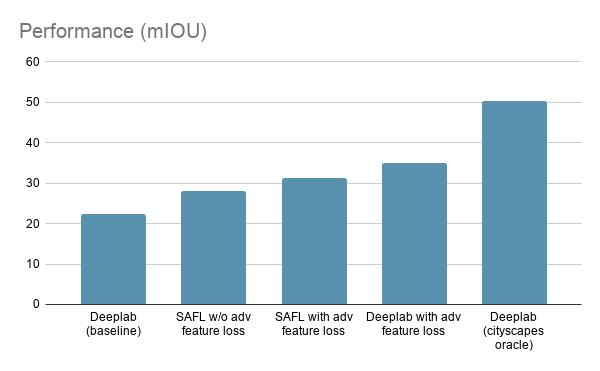
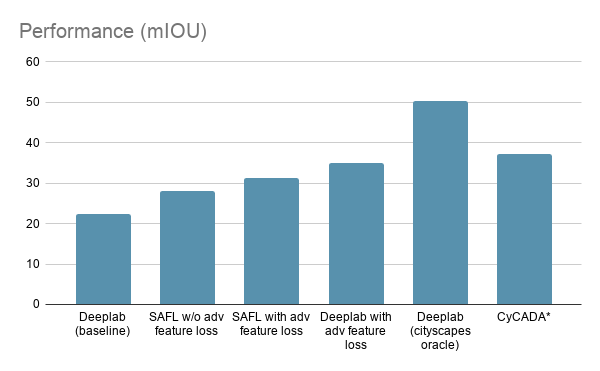
added cycada, references, updated figures, tables

Changed region(s): [[0.12, 0.2668, 0.93, 0.9488]]

diff --git a/index.html b/index.html
@@ -120,19 +120,21 @@
 
 <style type="text/css">
 	table.tableizer-table {
-		font-size: 12px;
+		font-size: 14px;
 		border: 1px solid #CCC; 
-		font-family: Arial, Helvetica, sans-serif;
+		border-collapse: collapse;
 	} 
 	.tableizer-table td {
 		padding: 4px;
 		margin: 3px;
 		border: 1px solid #CCC;
+		text-align: center;
 	}
 	.tableizer-table th {
-		background-color: #104E8B; 
+		padding: 4px;
+		margin: 3px;
+		background-color: black;
 		color: #FFF;
-		font-weight: bold;
 	}
 </style>
 
@@ -223,146 +225,130 @@
 		<center><h1>Abstract</h1></center>
 		<tr>
 			<td>
-				This is my abstract.
+				We propose a novel domain adaptation method, SAFL for semantic segmentation. Assuming we only have an access to ground-truth segmentation maps in a source domain, SAFL learns the features of the source (synthetic) and target (real) domains in a supervised and self-supervised manner respectively. For self-supervised training, we use image reconstruction to learn the features of the target domain without ground-truth labels. Our experimental results show that the self-supervised training via image reconstruction in the target domain helps our method improve the mIoU score in semantic segmentation significantly.
 			</td>
 		</tr>
 	</table>
 	<br>
 
 	<hr>
-	<center><h1>Talk</h1></center>
-	<p align="center">
-		<iframe width="660" height="395" src="https://www.youtube.com/embed/dQw4w9WgXcQ" frameborder="0" allow="autoplay; encrypted-media" allowfullscreen align="center"></iframe>
-	</p>
-
-	<table align=center width=800px>
-		<br>
-		<tr>
-			<center>
-				<span style="font-size:28px"><a href=''>[Slides]</a>
-				</span>
-			</center>
-		</tr>
-	</table>
-	<hr>
-
-	<center><h1>Code</h1></center>
-
-	<table align=center width=420px>
-		<center>
-			<tr>
-				<td>
-				</td>
-			</tr>
-		</center>
-	</table>
-	<table align=center width=400px>
-		<tr>
-			<td align=center width=400px>
-				<center>
-					<td><img class="round" style="width:450px" src="./resources/method_diagram.png"/></td>
-				</center>
-			</td>
-		</tr>
-	</table>
+	<center><h1>Introduction</h1></center>
 	<table align=center width=850px>
 		<center>
 			<tr>
 				<td>
-					Short description if wanted
+		Syn2Real is an approach to train a deep neural network (DNN) with only synthetic labeled images and optionally unlabeled real images.
+This approach is gaining popularity due to its potential ability to reduce the need of annotating large quantities of real images. It is especially beneficial for pixel-level tasks such as semantic segmentation and change detection, where labeling is the most time-consuming and labor-intensive.
+Another merit of Syn2Real is its ability to generate synthetic images diverse in weather and illumination conditions. This advantage, for instance, makes it easier for a trained model to deal with rare events like snow, rain, and fog in the field of autonomous driving. However, Syn2Real has a challenge of poor generalization to real images caused by the domain gap between real and synthetic images. To address this problem, many methods have been proposed in recent years such as unsupervised domain adaptation (DA), unsupervised representation learning, and learning from noisy or pseudo labels. Generally, unsupervised DA and representation learning train the network to make the feature distributions of the target and source domain closer. However, aligning the real (target) domain to the synthetic (source) domain distribution is an ill-posed problem because the real domain is significantly more complex and contains many more objects and nuisances. Learning from noisy labels is the latest approach in domain adaptation and achieves promising results. However, training with pseudo-labels can be unstable and often requires special tuning to avoid degeneration. To achieve stable training while maintaining high accuracy, we propose Self-Supervised Auxiliary Feature Learning (SAFL) --- a novel network architecture which learns domain adaptive features for semantic segmentation through the training of self-supervised image inpainting of unlabeled real images. We hypothesize that the task of self-supervised learning on real images acts as a strong regularizer for the network to perform well in both the source and target domains. To evaluate our method, we plan to conduct experiments of domain adaptive segmentation using the GTAV (synthetic) and Cityscapes (real) datasets.
 				</td>
 			</tr>
 		</center>
 	</table>
-	<table align=center width=800px>
-		<br>
-		<tr><center>
-			<span style="font-size:28px">&nbsp;<a href='https://github.com/richzhang/webpage-template'>[GitHub]</a>
-			</center>
-		</span>
-	</table>
-	<br>
 	<hr>
-	<table align=center width=450px>
-		<center><h1>Paper and Supplementary Material</h1></center>
+
+	<center><h1>Related Work</h1></center>
+
+	<table align=center width=850px>
+		<center>
+			<tr>
+				<td>
+		Semantic segmentation is a crucial task for safety autonomous driving. The recent methods for semantic segmentation generally use an encode-decoder architecture like UNet [4] or Deeplab [5] and its accuracy is improved day by day by using a novel network architecture. However, there is a fundamental problem that annotation cost of pixel-level segmentation maps is really huge. This problem makes it challenging to train a network with a dataset which has many conditions in terms of road types, weathers, and cameras. To solve this problem, semi-supervised semantic segmentation have been studied recently. Prior work of semi-supervised semantic segmentation makes use of adversarial learning, style transfer, pseudo-labeling [1],[2],[3]. In this project, we investigate a novel way to learn features invariant to different domains.
+				</td>
+			</tr>
+		</center>
+	</table>
+
+	<hr>
+
+	<center><h1>Proposed Method (SAFL)</h1></center>
+
+	<table align=center width=400px>
 		<tr>
-			<td><a href=""><img class="layered-paper-big" style="height:175px" src="./resources/paper.png"/></a></td>
-			<td><span style="font-size:14pt">F. Author, S. Author, T. Author.<br>
-				<b>Creative and Descriptive Paper Title.</b><br>
-				In Conference, 20XX.<br>
-				(hosted on <a href="">ArXiv</a>)<br>
-				<!-- (<a href="./resources/camera-ready.pdf">camera ready</a>)<br> -->
-				<span style="font-size:4pt"><a href=""><br></a>
-				</span>
+			<td align=center width=400px>
+				<center>
+					<td><img class="round" style="width:800px" src="./resources/method_diagram.png"/></td>
+				</center>
 			</td>
 		</tr>
 	</table>
-	<br>
-
-	<table align=center width=600px>
-		<tr>
-			<td><span style="font-size:14pt"><center>
-				<a href="./resources/bibtex.txt">[Bibtex]</a>
-			</center></td>
-		</tr>
+	
+	<center><h2>Architecture</h2></center>
+	<table align=center width=850px>
+		<center>
+			<tr>
+				<td>
+					We show a high-level overview of SAFL in the figure above. The network architecture is really simple. SAFL is composed of four subnetworks: an encoder, a semantic segmentation decoder, an image inpainting decoder, and a discriminator. The encoder is based on the the ResNet-101 backbone and the decoder is based on the DeepLabV3 semantic segmentation architecture. During training, all images are fed into the encoder first, and then the encoded feature is given to two decoders to predict the semantic segmentation or image painting. The discriminator network is used to align the distributions of the features between the synthetic and real images. We plan to perform some ablation studies to show the effectiveness of SAFL: 1) Remove the discriminator, 2) Use 2D image reconstruction instead of image inpainting, 3) Use a different backbone network like ResNext or a Transformer 4) Train using additional in-the-wild city images. We aim to achieve state of the art results with our unified but simple method for adaptive semantic segmentation.
+				</td>
+			</tr>
+		</center>
 	</table>
 
-	<hr>
-	<br>
-	<table align=center width=900px>
+	<!-- <table align=center width=800px> -->
+	<!-- 	<br> -->
+	<!-- 	<tr><center> -->
+	<!-- 		<span style="font&#45;size:28px">&#38;nbsp;<a href='https://github.com/richzhang/webpage&#45;template'>[GitHub]</a> -->
+	<!-- 		</center> -->
+	<!-- 	</span> -->
+	<!-- </table> -->
+	<center><h2>Training</h2></center>
+	<table align=center width=850px>
 		<tr>
 			<td width=400px>
 				<left>
-					<center><h1>Loss function</h1></center>
-					<p>In order to solve the task, the model has to implicitly learn about semantics and develop image features that are broadly useful. The encoder learns features from cityscape images in a self-supervised fashion by reconstructing it and the adversarial loss from the discriminator forces the network to learn features that can work in both sim and real domain.</p>
-
-					<p>We formulate this task to adapt from GTA V data to cityscapes data as the following loss function:</p>
-					$$L = \lambda_{seg} L_{seg} + \lambda_{rec} L_{rec} + \lambda_{adv} L_{adv}$$
-					<br>
-					<p>where L_seg is the segmentation loss for synthetic data, L_rec is the reconstruction loss for the real images and L_adv is the adversarial loss from the discriminator. The different losses are weighted with hyperparameters lambda_seg, lambda_rec and lambda_adv. </p>
+					<p>In order to solve the task, the model has to implicitly learn about semantics and develop image features that are broadly useful. The encoder learns features from cityscape images in a self-supervised fashion by reconstructing it and the adversarial loss from the discriminator forces the network to learn features that can work in both sim and real domain. We formulate this task to adapt from GTA V data to cityscapes data as the following loss function:</p>
+					<p>$$L = \lambda_{seg} L_{seg} + \lambda_{rec} L_{rec} + \lambda_{adv} L_{adv}$$</p>
+					<p>where L_seg is the segmentation loss for synthetic data, L_rec is the reconstruction loss for the real images and L_adv is the adversarial loss from the discriminator. The different losses are weighted with hyperparameters \(\lambda_{seg}\), \(\lambda_{rec}\) and \(\lambda_{adv}\). </p>
 				</left>
 			</td>
 		</tr>
+	</table>
+	<center><h3>Reconstruction</h3></center>
+	<table align=center width=850px>
 		<tr>
 			<td width=400px>
 				<left>
-					<center><h2>Reconstruction</h2></center>
 					<p>For the reconstruction loss we use an L2 distance between the reconstructed image and target cityscapes image.</p>
-					$$L_{rec} = ||F(x) - x||^2_2$$</br>
+					$$L_{rec} = ||F(x) - x||^2_2$$
 				</left>
 			</td>
 		</tr>
+	</table>
+	<center><h3>Adversarial loss</h3></center>
+	<table align=center width=850px>
 		<tr>
 			<td width=400px>
 				<left>
-					<center><h2>Adversarial loss</h2></center>
 					<p>We also add an adversarial loss on the feature space based on Generative Adversarial Networks. The discriminator takes as input image features and tries to classify them as real or synthetic. The goal is to learn features that are similar to real image features so the discriminator is fooled.</p>
-					$$L_{adv} = ||D(z) – 1||^2_2$$</br>
-					<p>Where z is the image features, D is the discriminator</p>
-					<p>This least squares GAN loss is based on [ “Least Squares Generative Adversarial Networks.”] which observed that using binary cross entropy loss for generated images which are very different from real images can lead to vanishing gradients.</p>
+					$$L_{adv} = ||D(z) – 1||^2_2$$
+					<p>where z is the image features, \(D\) is the discriminator. This least squares GAN loss is based on [6] which observed that using binary cross entropy loss for generated images which are very different from real images can lead to vanishing gradients.</p>
 				</left>
 			</td>
 		</tr>
 	</table>
 	<hr>
 
-	<table align=center width=900px>
+	<table align=center width=850px>
 		<tr>
 			<td width=400px>
 				<left>
 					<center><h1>Experiments</h1></center>
-					We train our method on approx. 10% of GTAV dataset and evaluate on cityscapes data. [Dataset stats: num of images, epochs trained for etc.]
+					We train our method on approx. 10% of GTAV dataset and evaluate on cityscapes data. [Dataset stats: num of images, epochs trained for, learning rate, batch size, etc.]
 				</left>
 			</td>
 		</tr>
 		<tr>
-			<td><center><img src="./resources/performance_miou.png"/></center></td>
+			<td>
+				<center>
+					<img src="./resources/performance_miou.png"/>
+					<img src="./resources/perclassiou.png"/>
+				</center>
+			</td>
 		</tr>
 		<tr>
 			<td width=400px>
 				<left>
 					<center><h2>Quantitative results</h2></center>
-					We compare our method with the baseline which learns semantic segmentation on GTA V and naively transfers to cityscapes in the first column. SAFL outperforms this baseline as seen with the second and third column. Adding adversarial loss improves performance over just using reconstruction. However, we found that removing the reconstruction auxiliary output and just doing segmentation with adversarial loss does better (in the 4th and 5th cols). The last column shows the oracle performance which is the deeplab network trained on cityscapes data.
+					We compare our method with the baseline which learns semantic segmentation on GTA V and naively transfers to cityscapes in the first column. SAFL outperforms this baseline as seen with the second and third column. Adding adversarial loss improves performance over just using reconstruction. However, we found that removing the reconstruction auxiliary output and just doing segmentation with adversarial loss does better (in the 4th and 5th cols). The last column shows the oracle performance which is the deeplab network trained on cityscapes data. Comparing to CyCADA shows that our method does slightly worse. However, for our results, due to time constraint, we did not utilize the full dataset.
 				</left>
 			</td>
 		</tr>
@@ -370,29 +356,47 @@
 
 	<br>
 	<table class="tableizer-table" align=center>
-	<thead><tr class="tableizer-firstrow"><th>Class</th><th>Baseline</th><th>SAFL</th><th>Deeplab + seg adv</th><th>Deeplab + feat adv</th><th>Oracle</th></tr></thead><tbody>
-	 <tr><td>road</td><td>12.73</td><td>87.25</td><td>85.12</td><td>91.527</td><td>93.06</td></tr>
-	 <tr><td>sidewalk</td><td>19.98</td><td>9.99</td><td>1.11</td><td>15.375</td><td>60.34</td></tr>
-	 <tr><td>building</td><td>75.41</td><td>75.64</td><td>76.12</td><td>72.404</td><td>81.57</td></tr>
-	 <tr><td>wall</td><td>15.32</td><td>16.85</td><td>15.95</td><td>1.696</td><td>42.85</td></tr>
-	 <tr><td>fence</td><td>17.68</td><td>3.74</td><td>12.4</td><td>21.525</td><td>34.05</td></tr>
-	 <tr><td>pole</td><td>16.99</td><td>12.6</td><td>17.86</td><td>18.886</td><td>15.97</td></tr>
-	 <tr><td>traffic light</td><td>18.1</td><td>14.86</td><td>18.93</td><td>22.642</td><td>29.24</td></tr>
-	 <tr><td>traffic sign</td><td>12.65</td><td>3.66</td><td>7.47</td><td>17.379</td><td>36.44</td></tr>
-	 <tr><td>vegetation</td><td>77.83</td><td>76.1</td><td>77.27</td><td>81.499</td><td>81.1</td></tr>
-	 <tr><td>terrain</td><td>11.43</td><td>27.57</td><td>24.65</td><td>33.558</td><td>45.25</td></tr>
-	 <tr><td>sky</td><td>77.74</td><td>69.59</td><td>71.42</td><td>55.217</td><td>82.27</td></tr>
-	 <tr><td>person</td><td>31.88</td><td>33.01</td><td>40.42</td><td>35.463</td><td>47.24</td></tr>
-	 <tr><td>rider</td><td>0.17</td><td>1.57</td><td>4.99</td><td>23.984</td><td>29.44</td></tr>
-	 <tr><td>car</td><td>20.01</td><td>71.88</td><td>79.62</td><td>80.481</td><td>76.93</td></tr>
-	 <tr><td>truck</td><td>5.98</td><td>12.49</td><td>26.53</td><td>36.229</td><td>42.83</td></tr>
-	 <tr><td>bus</td><td>8.98</td><td>3.23</td><td>19.07</td><td>16.913</td><td>50.64</td></tr>
-	 <tr><td>train</td><td>1.37</td><td>11.29</td><td>0.19</td><td>0</td><td>30.36</td></tr>
-	 <tr><td>motorcycle</td><td>0.73</td><td>0</td><td>9.63</td><td>20.736</td><td>29.02</td></tr>
-	 <tr><td>bicycle</td><td>0.09</td><td>0.72</td><td>0.5</td><td>18.088</td><td>46.68</td></tr>
-	</tbody></table>
+	<style type="text/css">
+	table.tableizer-table {
+		font-size: 12px;
+		border: 1px solid #CCC; 
+		font-family: Arial, Helvetica, sans-serif;
+	} 
+	.tableizer-table td {
+		padding: 4px;
+		margin: 3px;
+		border: 1px solid #CCC;
+	}
+	.tableizer-table th {
+		background-color: #000000; 
+		color: #FFF;
+		font-weight: bold;
+	}
+</style>
+<table class="tableizer-table" align=center>
+<thead><tr class="tableizer-firstrow"><th>Class</th><th>Baseline</th><th>SAFL</th><th>Deeplab + seg adv</th><th>Deeplab + feat adv</th><th>Oracle</th><th>CyCADA*</th></tr></thead><tbody>
+ <tr><td>road</td><td>12.73</td><td>87.25</td><td>85.12</td><td>91.527</td><td>93.06</td><td>80.97</td></tr>
+ <tr><td>sidewalk</td><td>19.98</td><td>9.99</td><td>1.11</td><td>15.375</td><td>60.34</td><td>31.21</td></tr>
+ <tr><td>building</td><td>75.41</td><td>75.64</td><td>76.12</td><td>72.404</td><td>81.57</td><td>79.53</td></tr>
+ <tr><td>wall</td><td>15.32</td><td>16.85</td><td>15.95</td><td>1.696</td><td>42.85</td><td>22.41</td></tr>
+ <tr><td>fence</td><td>17.68</td><td>3.74</td><td>12.4</td><td>21.525</td><td>34.05</td><td>13.91</td></tr>
+ <tr><td>pole</td><td>16.99</td><td>12.6</td><td>17.86</td><td>18.886</td><td>15.97</td><td>25.53</td></tr>
+ <tr><td>traffic light</td><td>18.1</td><td>14.86</td><td>18.93</td><td>22.642</td><td>29.24</td><td>24.97</td></tr>
+ <tr><td>traffic sign</td><td>12.65</td><td>3.66</td><td>7.47</td><td>17.379</td><td>36.44</td><td>20.62</td></tr>
+ <tr><td>vegetation</td><td>77.83</td><td>76.1</td><td>77.27</td><td>81.499</td><td>81.1</td><td>75.61</td></tr>
+ <tr><td>terrain</td><td>11.43</td><td>27.57</td><td>24.65</td><td>33.558</td><td>45.25</td><td>24.47</td></tr>
+ <tr><td>sky</td><td>77.74</td><td>69.59</td><td>71.42</td><td>55.217</td><td>82.27</td><td>71.79</td></tr>
+ <tr><td>person</td><td>31.88</td><td>33.01</td><td>40.42</td><td>35.463</td><td>47.24</td><td>52.27</td></tr>
+ <tr><td>rider</td><td>0.17</td><td>1.57</td><td>4.99</td><td>23.984</td><td>29.44</td><td>12.84</td></tr>
+ <tr><td>car</td><td>20.01</td><td>71.88</td><td>79.62</td><td>80.481</td><td>76.93</td><td>79.54</td></tr>
+ <tr><td>truck</td><td>5.98</td><td>12.49</td><td>26.53</td><td>36.229</td><td>42.83</td><td>30.45</td></tr>
+ <tr><td>bus</td><td>8.98</td><td>3.23</td><td>19.07</td><td>16.913</td><td>50.64</td><td>27.75</td></tr>
+ <tr><td>train</td><td>1.37</td><td>11.29</td><td>0.19</td><td>0</td><td>30.36</td><td>3.18</td></tr>
+ <tr><td>motorcycle</td><td>0.73</td><td>0</td><td>9.63</td><td>20.736</td><td>29.02</td><td>22.2</td></tr>
+ <tr><td>bicycle</td><td>0.09</td><td>0.72</td><td>0.5</td><td>18.088</td><td>46.68</td><td>7.23</td></tr>
+</tbody></table>
 	<br>
-	<table align=center width=900px>
+	<table align=center width=850px>
 		<tr>
 			<td width=400px>
 				<left>
@@ -401,11 +405,17 @@
 			</td>
 		</tr>
 	</table>
-	<hr>
-	<center><h1>Qualitative results</h1></center>
+
+	<table align=center width=850px>
+		<tr>
+			<td width=400px>
+				<center><h2>Qualitative results</h2></center>
+			</td>
+		</tr>
+	</table>
 	<hr>
 	<center><h1>Discussion</h1></center>
-	<table align=center width=900px>
+	<table align=center width=850px>
 		<tr>
 			<td width=400px>
 				<left>
@@ -417,20 +427,32 @@
 	<hr>
 	<br>
 	<center><h1>Future Work</h1></center>
-	We currently use a features from the final layer of the resnet backbone before the ASPP layers for feature space adversarial loss. We can use different intermediate features to see how it affects performance. Also, using different auxillary task than reconstruction could be more suited to this domain adaptation task. For example, we can investigate tasks such as denoising or inpainting. Similarly, we can use contrastive learning methods to learn good representation. Finally, we can use a loss that more directly optimzes the mean IOU with respect to class imbalance. We leave these experiments as future work.
-	<hr>
-
-	<table align=center width=900px>
+	<table align=center width=850px>
 		<tr>
 			<td width=400px>
 				<left>
-					<center><h1>Acknowledgements</h1></center>
-					This template was originally made by <a href="http://web.mit.edu/phillipi/">Phillip Isola</a> and <a href="http://richzhang.github.io/">Richard Zhang</a> for a <a href="http://richzhang.github.io/colorization/">colorful</a> ECCV project; the code can be found <a href="https://github.com/richzhang/webpage-template">here</a>.
-				</left>
+			We currently use features from the final layer of the resnet backbone before the ASPP layers for feature space adversarial loss. We can use different intermediate features to see how it affects performance. Also, using different auxillary task than reconstruction could be more suited to this domain adaptation task. For example, we can investigate tasks such as denoising or inpainting. Similarly, we can use contrastive learning methods to learn good representation. Finally, we can use a loss that more directly optimzes the mean IOU with respect to class imbalance. We leave these experiments as future work.
 			</td>
 		</tr>
 	</table>
-
+	<hr>
+	<br>
+	<center><h1>References</h1></center>
+	<table align=center width=850px>
+		<tr>
+			<td width=400px>
+				<ol>
+					<li>Pathak, Deepak, Philipp Krahenbuhl, Jeff Donahue, Trevor Darrell, and Alexei A. Efros. "Context encoders: Feature learning by inpainting." In Proceedings of the IEEE conference on computer vision and pattern recognition, pp. 2536-2544. 2016.</li>
+					<li>Tsai, Yi-Hsuan, Wei-Chih Hung, Samuel Schulter, Kihyuk Sohn, Ming-Hsuan Yang, and Manmohan Chandraker. "Learning to adapt structured output space for semantic segmentation." In Proceedings of the IEEE conference on computer vision and pattern recognition, pp. 7472-7481. 2018.</li>
+					<li>Zhang, Pan, Bo Zhang, Ting Zhang, Dong Chen, Yong Wang, and Fang Wen. "Prototypical Pseudo Label Denoising and Target Structure Learning for Domain Adaptive Semantic Segmentation." arXiv preprint arXiv:2101.10979 (2021).</li>
+					<li>Ronneberger, Olaf, Philipp Fischer, and Thomas Brox. "U-net: Convolutional networks for biomedical image segmentation." In International Conference on Medical image computing and computer-assisted intervention, pp. 234-241. Springer, Cham, 2015.</li>
+					<li>Chen, Liang-Chieh, George Papandreou, Florian Schroff, and Hartwig Adam. "Rethinking atrous convolution for semantic image segmentation." arXiv preprint arXiv:1706.05587 (2017).</li>
+					<li>Mao, Xudong, Qing Li, Haoran Xie, Raymond YK Lau, Zhen Wang, and Stephen Paul Smolley. "Least squares generative adversarial networks." In Proceedings of the IEEE international conference on computer vision, pp. 2794-2802. 2017.</li>
+				</ol>
+			</td>
+		</tr>
+	</table>
+	<hr>
 <br>
 </body>
 </html>
